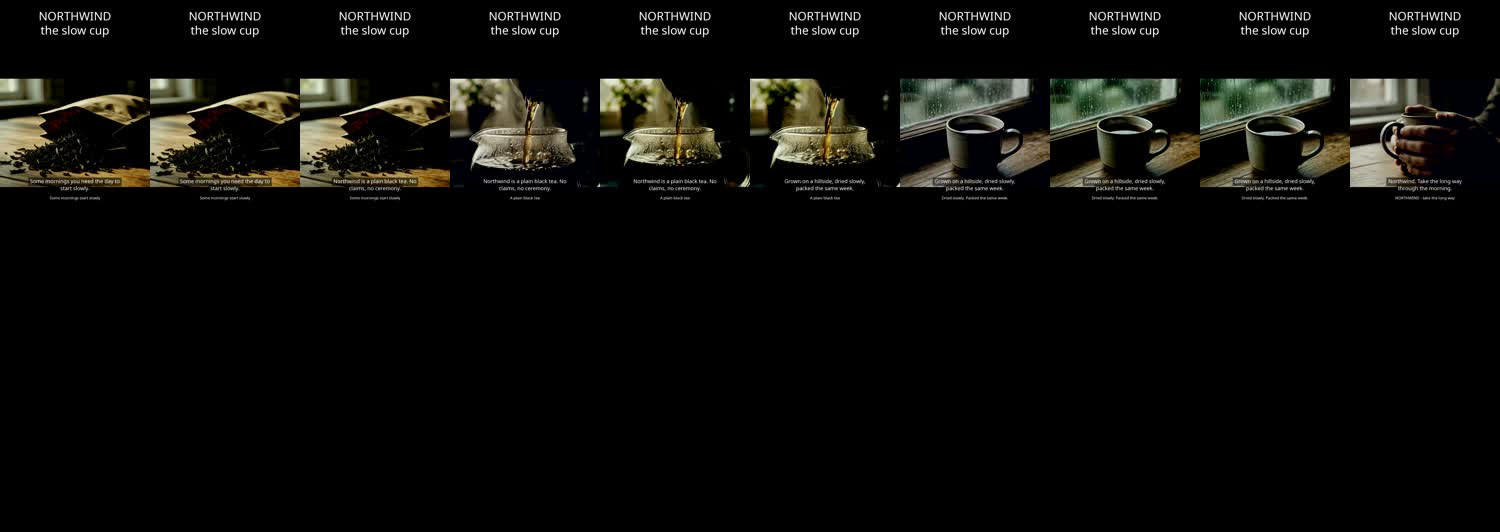
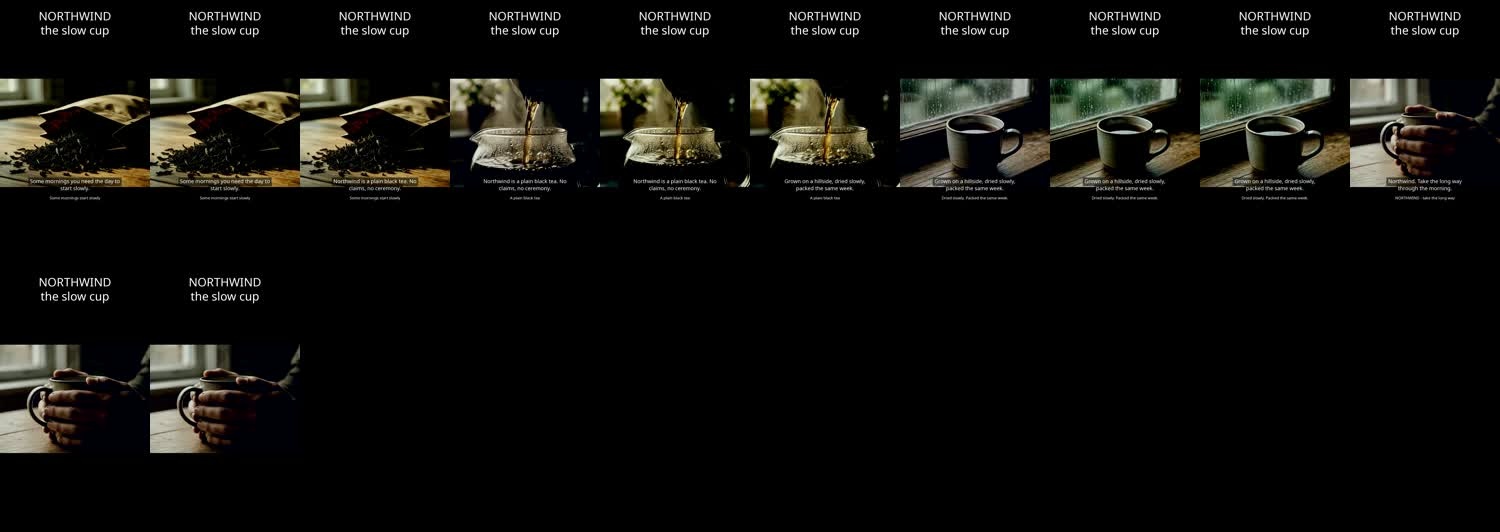
The last spoken line was being cut off in EVERY film - found by ASR, fixed, re-cut
studio/_tools/shorts_asr.py transcribes a delivered master with the Granite speech
weights already on the box and scores the transcript against the script that was
written (content-word recall; stopwords dropped because "the" matching proves
nothing). It is a flag for a listen, not a gate - ASR on a mixed track is imperfect -
and it prints transcript beside script so the difference is visible.

It immediately found a real defect no level meter could:

  SCRIPT  "... Northwind. Take the long way through the morning."
  MIX     "... we wind take the"

The master is written with -t total, where total is the PICTURE length. A voice that
starts near the end is truncated mid-word. Every existing check passed: loudness on
target, and the audio/video coverage check compares two numbers that are both the
picture length. The audio was exactly as long as the picture; the WORDS were missing.
That is the silent-success class this project keeps paying for, and it needed a
different instrument to see.

FIX in the cutter: compute when the last voice actually ends, and if it runs past the
picture, hold the final frame for the overhang (tpad clone) so the read finishes over
a held image - an ordinary outro, rather than clipping or speeding up the line. Capped
at 4s so a runaway read cannot stretch a film. It says out loud when it holds.

ALL SIX films rendered before the fix had truncated last lines. All re-cut.
[…]

Changed region(s): [[0.0, 0.6316, 0.2147, 0.8722], [0.1227, 0.5113, 0.184, 0.5714], [0.0307, 0.5113, 0.092, 0.5714]]

diff --git a/studio/_tools/shorts_asr.py b/studio/_tools/shorts_asr.py
@@ -1,0 +1,101 @@
+#!/usr/bin/env python3
+"""studio/_tools/shorts_asr.py - prove the delivered films actually SAY their scripts.
+
+    python3 studio/_tools/shorts_asr.py [--limit N] [--only ID]
+
+WHY. Everything measured so far proves the audio EXISTS and is at the right level. None
+of it proves the words are right, and the failure this project has already recorded is a
+TTS engine dropping a clause - which leaves loudness, duration and coverage all perfect
+and the film wrong. So: transcribe each film's own mix with the Granite speech weights
+already on the box, and score the transcript against the script that was written.
+
+SCORING is deliberately blunt and honest. Word-level recall of the script's CONTENT words
+(stopwords dropped, because "the" matching proves nothing): what fraction of the words we
+asked for come back. A film that scores high is saying its script. A film that scores low
+is either mis-speaking it or the mix has buried it under the score - and the report says
+which by also reporting the voice stem's own level.
+
+Not a pass/fail gate. ASR on a mixed track with music under it is imperfect, and a low
+score is a flag for a listen, not a verdict. The transcript is printed beside the script
+so the difference is visible rather than asserted.
+"""
+import argparse
+import json
+import os
+import re
+import subprocess
+import sys
+
+TOOLS = os.path.dirname(os.path.abspath(__file__))
+STUDIO = os.path.dirname(TOOLS)
+ROOT = os.path.dirname(STUDIO)
+sys.path.insert(0, TOOLS)
+
+STOP = set("a an the and or but if of to in on at for with from by is are was were be "
+           "been it its this that these those you your we our they them he she his her "
+           "as so not no do does did can will would could should have has had one two "
+           "up out about into over than then there here what which who when".split())
+
+
+def words(s):
+    return [w for w in re.findall(r"[a-z']+", str(s).lower()) if w not in STOP
+            and len(w) > 2]
+
+
+def main():
+    ap = argparse.ArgumentParser(description="Do the delivered shorts say their scripts?")
+    ap.add_argument("--only")
+    ap.add_argument("--limit", type=int, default=0)
+    ap.add_argument("--device", default=None)
+    a = ap.parse_args()
+    rows = json.load(open(os.path.join(STUDIO, "samples", "shorts", "shorts.json"),
+                          encoding="utf-8"))
+    ready = [r for r in rows if r.get("status") == "ready"]
+    if a.only:
+        ready = [r for r in ready if r["id"] == a.only]
+    if a.limit:
+        ready = ready[:a.limit]
+    if not ready:
+        print("nothing delivered yet")
+        return 0
+    # extract each master's audio once
+    wavs, meta = [], {}
+    tmp = "/tmp/shorts_asr"
+    os.makedirs(tmp, exist_ok=True)
+    for r in ready:
+        src = os.path.join(STUDIO, r["file"])
+        w = os.path.join(tmp, r["id"] + ".wav")
+        subprocess.run(["ffmpeg", "-y", "-v", "error", "-i", src, "-ac", "1",
+                        "-ar", "16000", w], capture_output=True)
+        if os.path.exists(w):
+            wavs.append(w)
+            meta[w] = r
+    sys.path.insert(0, TOOLS)
+    from film_audio import _asr_local
+    print("transcribing %d films..." % len(wavs), flush=True)
+    got = _asr_local(wavs, device=a.device)
+
+    out, scores = [], []
+    for w, text in got.items():
+        r = meta[w]
+        script = " ".join(r.get("script") or [])
+        want, heard = words(script), set(words(text))
+        hit = [x for x in want if x in heard]
+        score = len(hit) / max(1, len(want))
+        scores.append(score)
+        out.append({"id": r["id"], "recall": round(score, 3), "words": len(want),
+                    "script": script, "transcript": text})
+        print("%-22s recall %.0f%%  (%d/%d content words)"
+              % (r["id"], 100 * score, len(hit), len(want)))
+        if score < 0.6:
+            print("   SCRIPT: %s" % script[:200])
+            print("   HEARD : %s" % text[:200])
+    p = os.path.join(STUDIO, "samples", "shorts", "asr.json")
+    json.dump(out, open(p, "w"), indent=1)
+    print("\nmean recall %.0f%% over %d films -> %s"
+          % (100 * sum(scores) / len(scores), len(scores), p))
+    return 0
+
+
+if __name__ == "__main__":
+    sys.exit(main())

diff --git a/scripts/short.py b/scripts/short.py
@@ -851,6 +851,32 @@ def cut(film, out):
        "-c", "copy", joined)
     total = dur(joined)
 
+    # THE LAST LINE MUST FINISH. The master is written with -t total, so a voice that
+    # starts near the end is truncated mid-word - and nothing catches it: loudness is on
+    # target and the audio/video coverage check compares two numbers that are both the
+    # picture length. Found by ASR on a delivered film ("Take the long way through the
+    # morning" arrived as "take the"). Hold the final frame for the overhang so the read
+    # finishes over a held image, which is an ordinary outro. Capped so a runaway read
+    # cannot stretch the film.
+    audio_end = 0.0
+    for cstart, _cl, _line, cvp in cues:
+        if os.path.exists(cvp):
+            audio_end = max(audio_end, cstart + adur(cvp))
+    over = min(4.0, audio_end - total)
+    if over > 0.05:
+        held = f"{work}/_joined_held.mp4"
+        r = sh("ffmpeg", "-y", "-v", "error", "-i", joined, "-vf",
+               f"tpad=stop_mode=clone:stop_duration={over:.2f}",
+               "-c:v", "libx264", "-crf", "16", "-preset", "veryfast",
+               "-pix_fmt", "yuv420p", "-an", held)
+        if os.path.exists(held):
+            print(f"    held the last frame {over:.2f}s so the final line finishes")
+            joined = held
+            total = dur(joined)
+        else:
+            print(f"    !! the last line runs {over:.2f}s past the picture and the hold "
+                  f"failed - it will be cut off", file=sys.stderr)
+
     # ---- composite to the vertical canvas ------------------------------------
     cw, ch = film.get("canvas") or CANVAS
     ff = f"fontfile='{fgpath(FONT)}':" if FONT else ""

diff --git a/studio/samples/shorts/INDEX.md b/studio/samples/shorts/INDEX.md
@@ -1,15 +1,15 @@
 # Short-form slate
 
-5 of 20 rendered. Masters are vertical 1080x1920 with voice, score and effects mixed and mastered.
+7 of 20 rendered. Masters are vertical 1080x1920 with voice, score and effects mixed and mastered.
 
 | id | kind | title | secs | LUFS | hook |
 |---|---|---|---|---|---|
 | ad-atlas-pack | commercial | ATLAS | 10.3 | -9.8 | ATLAS / it has been everywhere |
 | ad-lumen-lamp | commercial | LUMEN | 10.3 | -9.5 | LUMEN / light that knows the hour |
-| ad-northwind-tea | commercial | NORTHWIND TEA | 10.3 | -9.6 | NORTHWIND / the slow cup |
+| ad-northwind-tea | commercial | NORTHWIND TEA | 12.0 | -9.6 | NORTHWIND / the slow cup |
 | ad-pace-runner | commercial | PACE | 10.3 | -9.5 | PACE / built for the fifth mile |
-| ad-slow-sunday | commercial | SLOW SUNDAY | - | - |  |
-| ad-tidewater | commercial | TIDEWATER | - | - |  |
+| ad-slow-sunday | commercial | SLOW SUNDAY | 10.3 | -9.7 | SLOW SUNDAY / nowhere to be |
+| ad-tidewater | commercial | TIDEWATER | 10.3 | -9.6 | TIDEWATER / three things, that is all |
 | hook-door | hook | THE DOOR | - | - |  |
 | hook-garden | hook | THE GARDEN | - | - |  |
 | hook-library | hook | THE RETURN | - | - |  |
@@ -54,6 +54,20 @@
 - PACE is built for the fifth. Where the cushioning usually gives up.
 - A denser midsole that holds its shape when you are tired and sloppy.
 - PACE. The mile that counts is the one after you wanted to stop.
+
+### ad-slow-sunday - SLOW SUNDAY
+
+- Sunday used to be a whole day.
+- Slow Sunday is a coarse ground for a slow brew. It takes eight minutes.
+- That is the point. You cannot rush it, so you do not.
+- Slow Sunday. Nowhere to be.
+
+### ad-tidewater - TIDEWATER
+
+- The shelf is full of bottles with twenty ingredients.
+- Tidewater has three. Water, glycerin, and an oil pressed from seed.
+- Nothing that needs explaining. Nothing that needs a chart.
+- Tidewater. Three things, and none of them is a promise.
 
 ### sup-creatine - CREATINE
 
